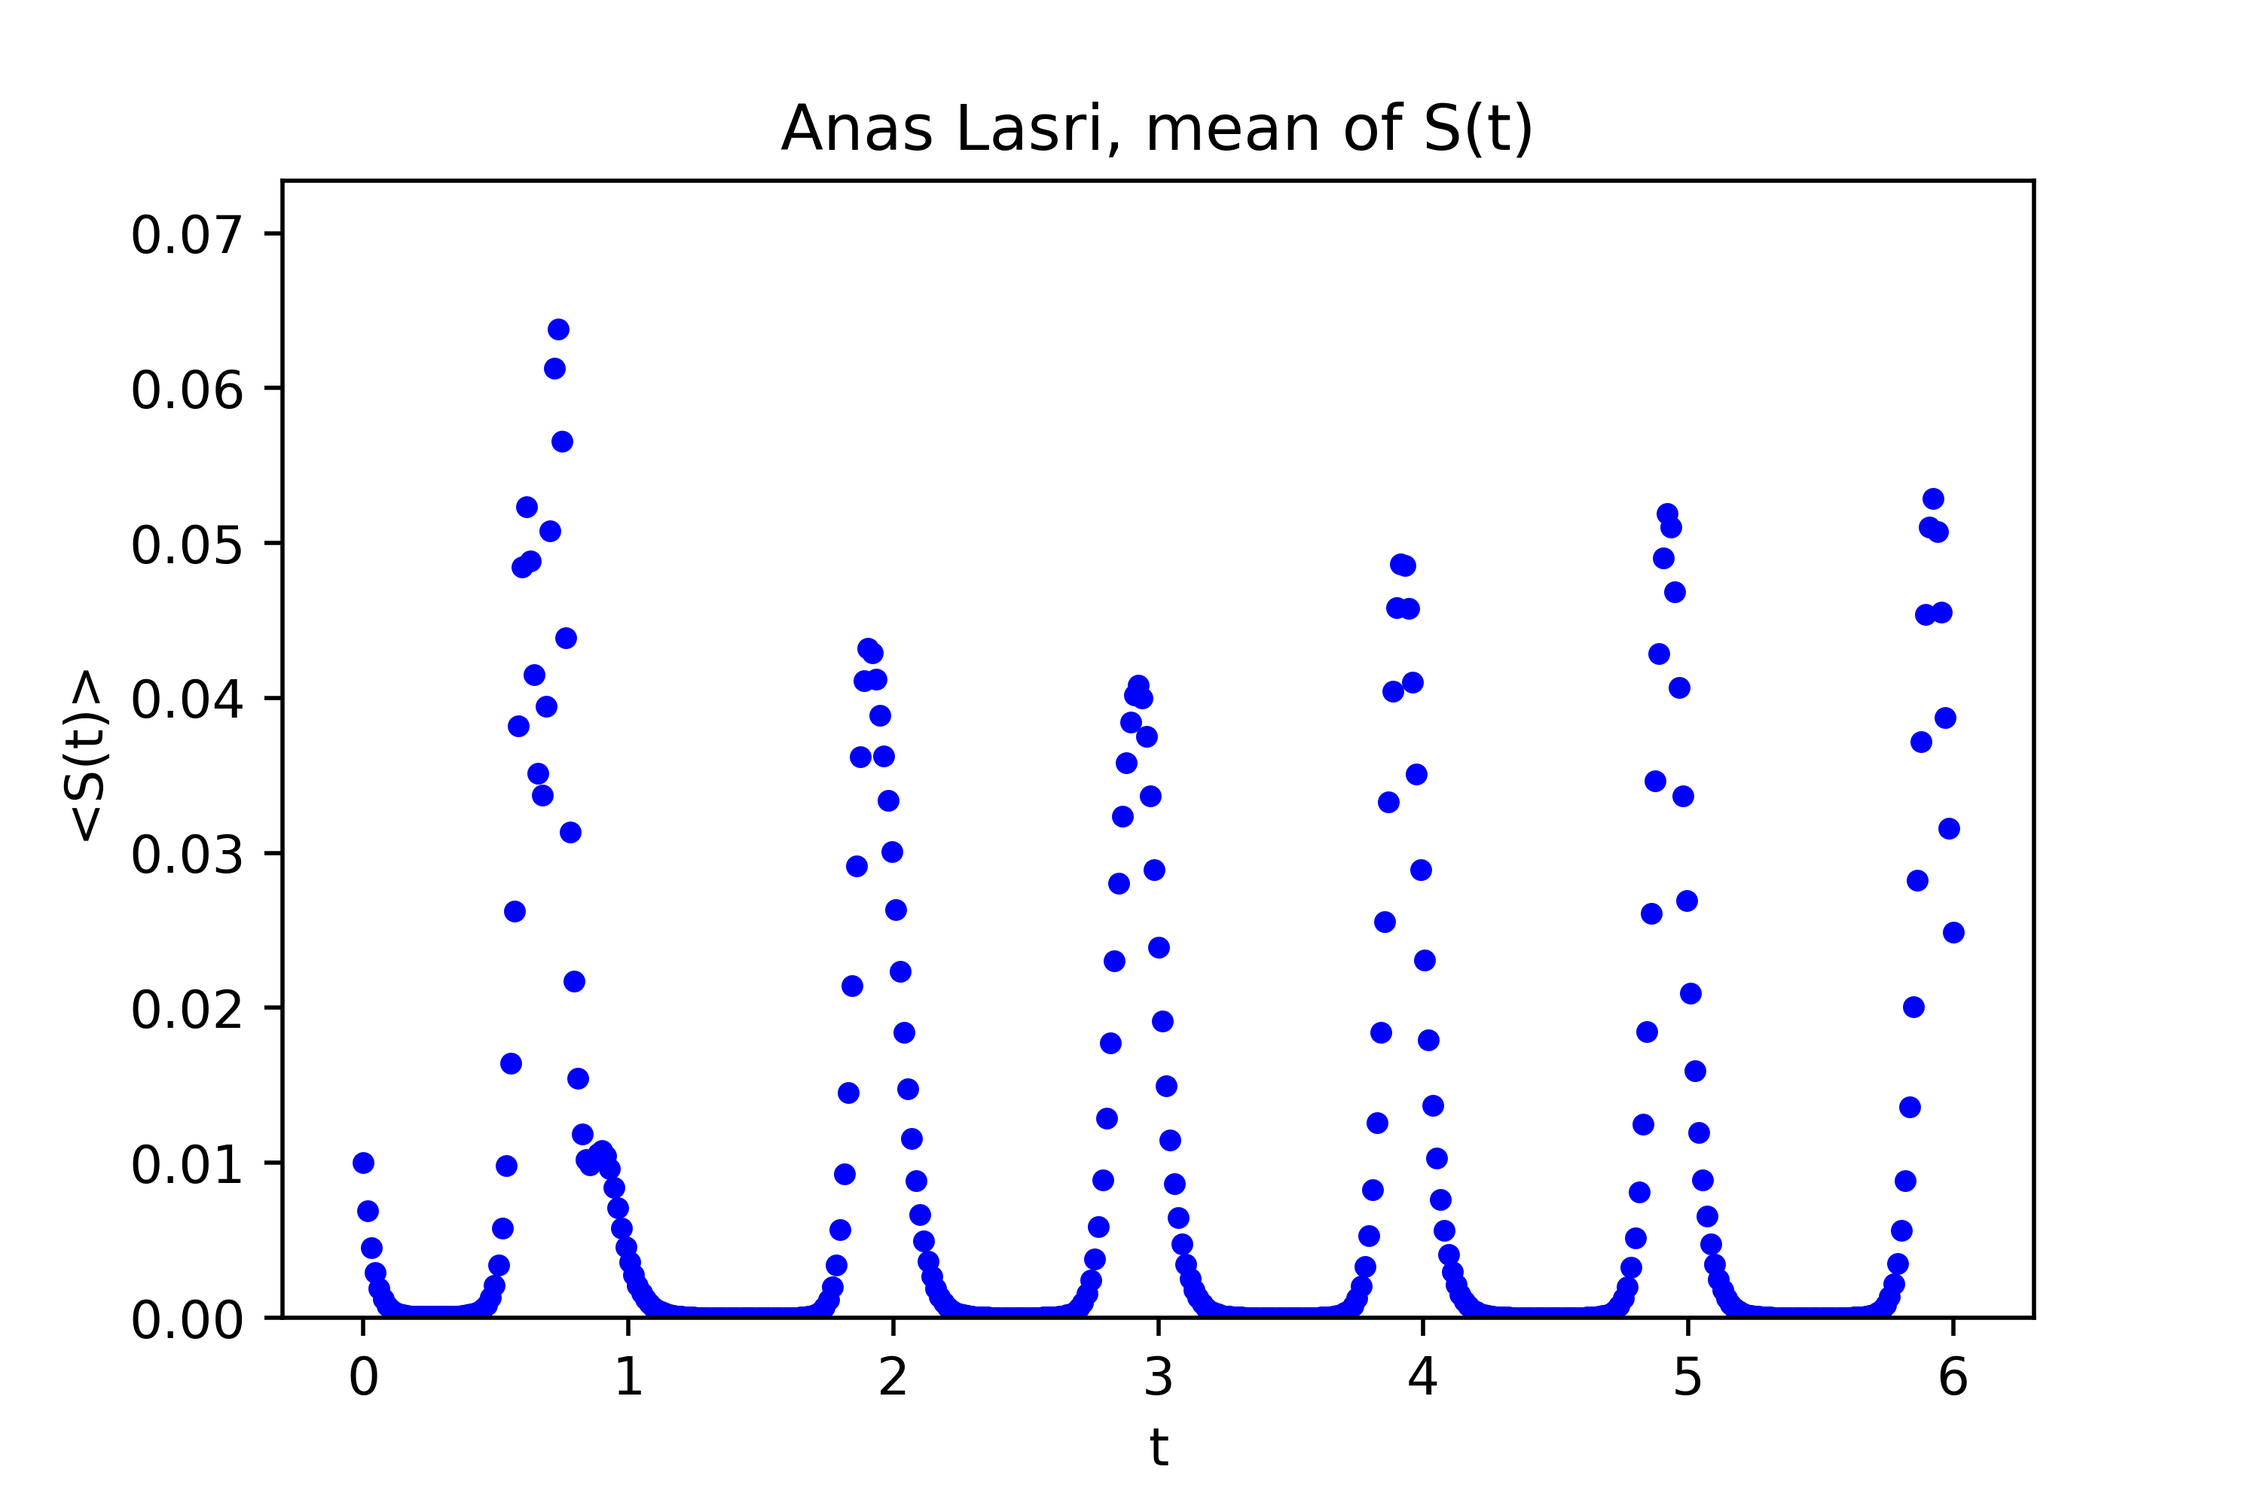
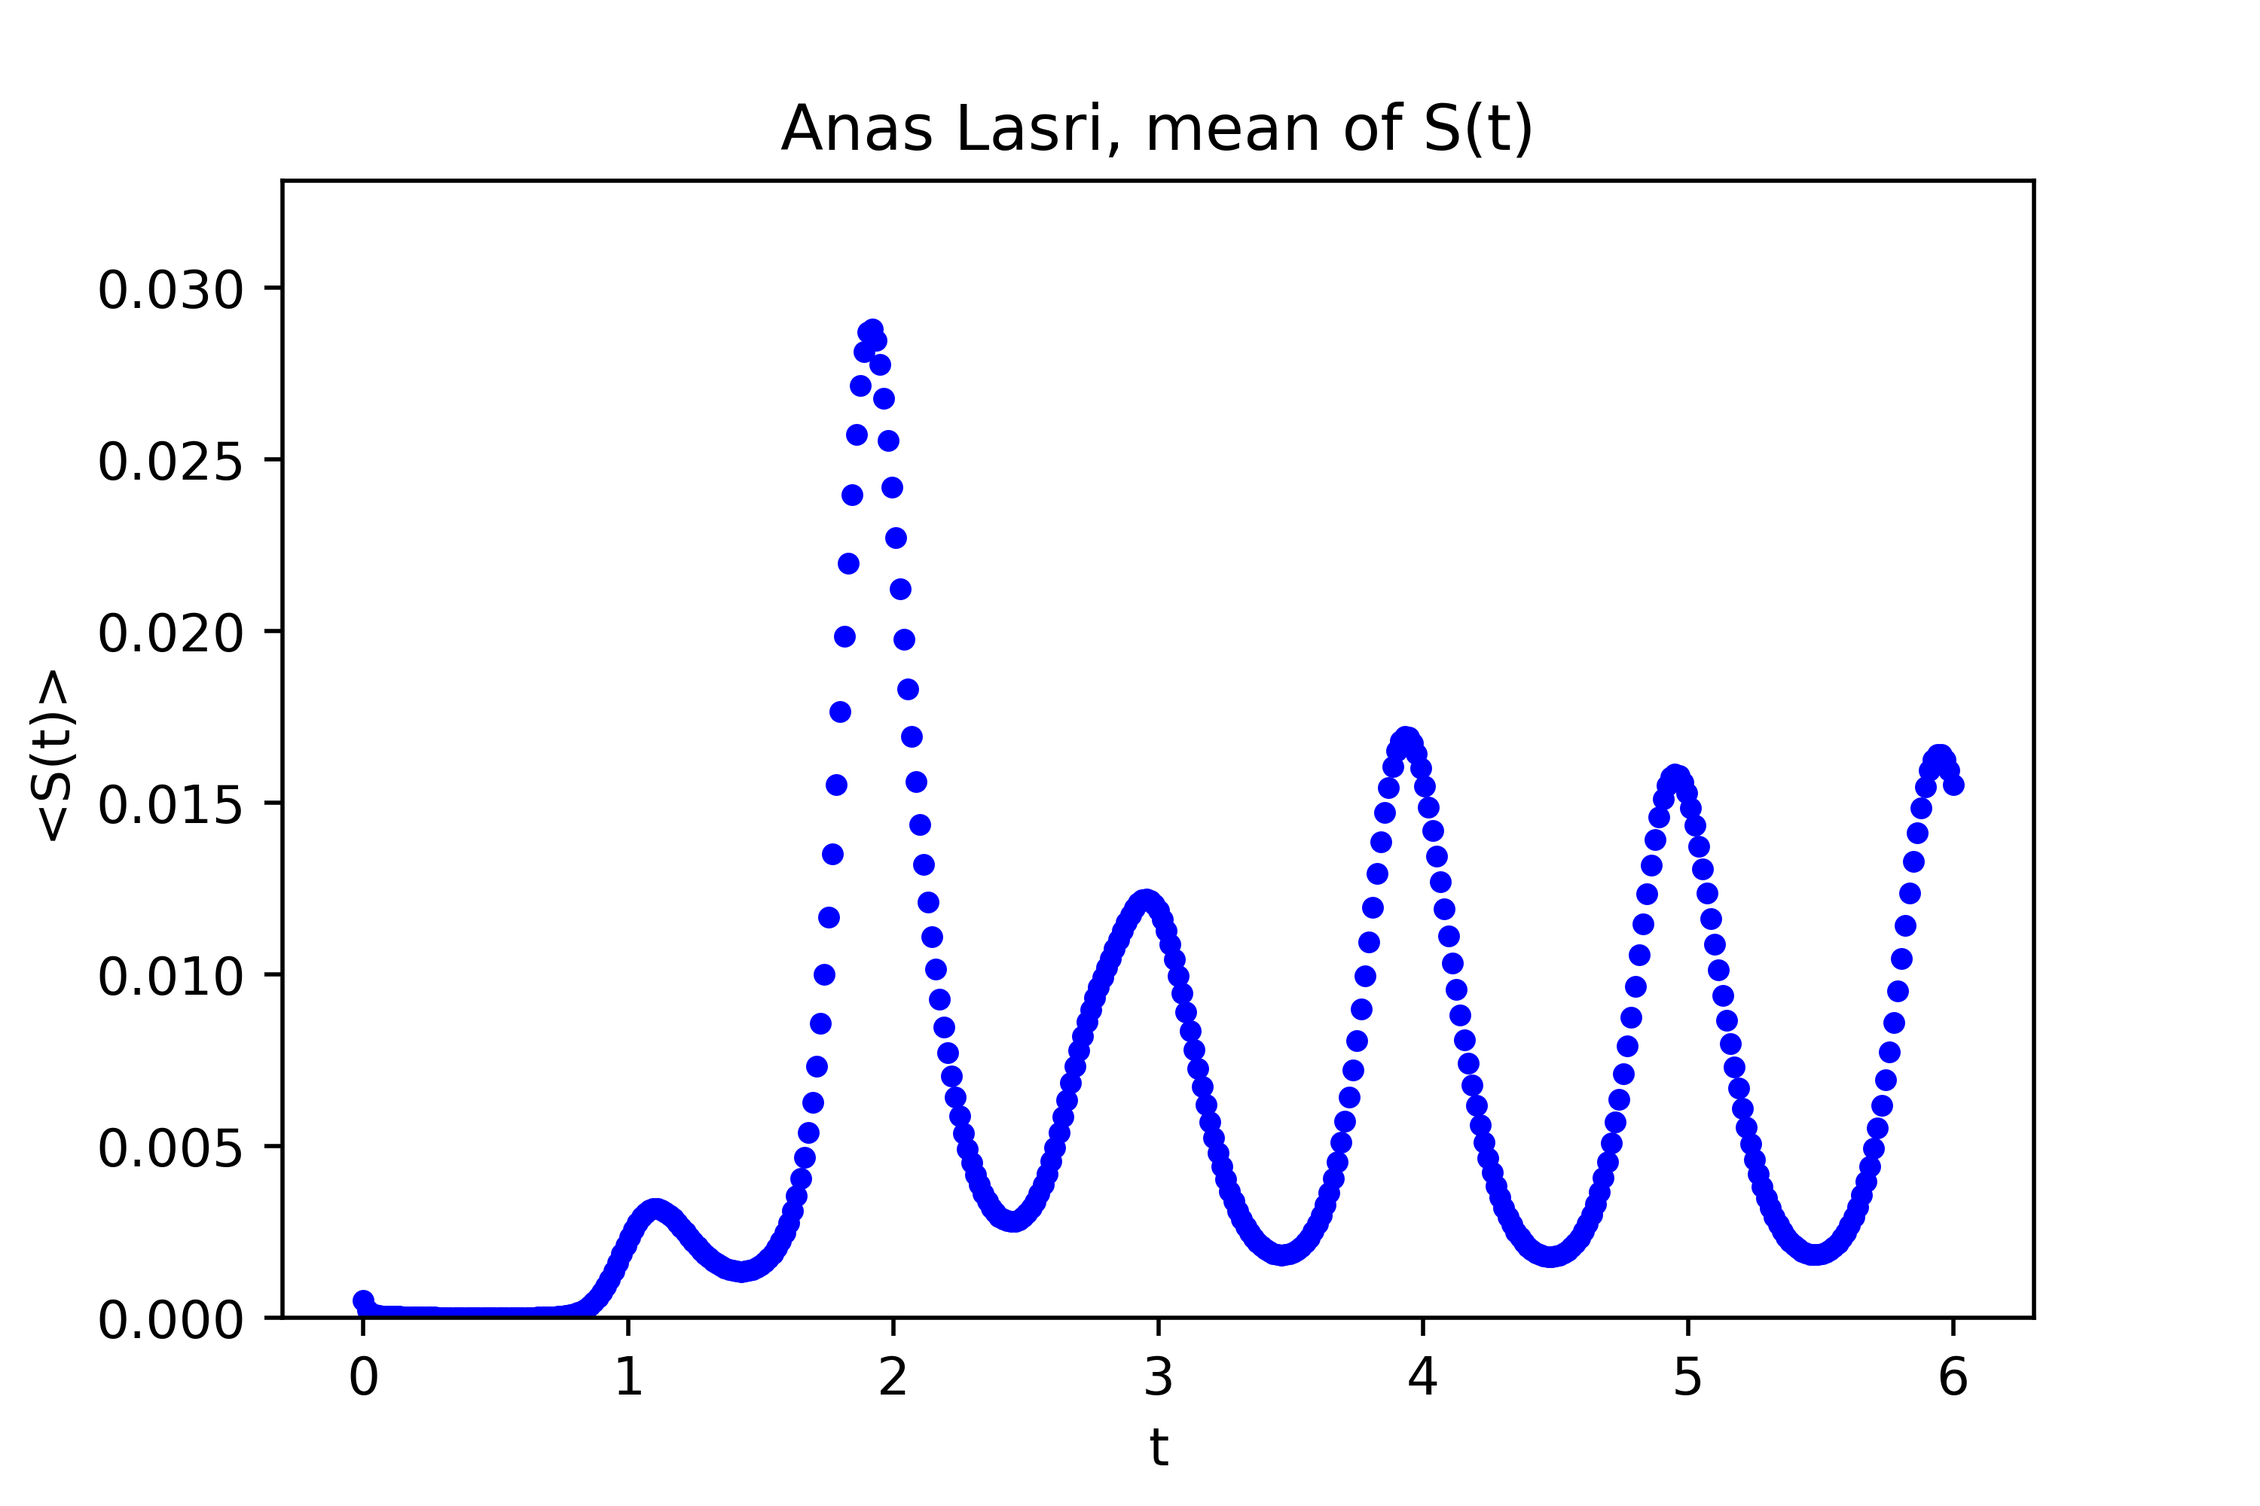
scared

diff --git a/hw2/p1_dev.py b/hw2/p1_dev.py
@@ -1,13 +1,15 @@
 """M345SC Homework 2, part 1
 Anas Lasri Doukkali, CID: 01209387
 """
-
+#==============================================================================#
 #==============================PART 1==========================================#
-
+#==============================================================================#
 
 import numpy as np                                #Importing Numpy
 
+#------------------------------------------------------------------------------#
 #-----------------------------PART 1.1-----------------------------------------#
+#------------------------------------------------------------------------------#
 
 def scheduler(L):
     """
@@ -36,7 +38,30 @@ def scheduler(L):
     all tasks are completed which we keep track of using our task_status list.
 
     b) Time Complexity: I will now discuss the time complexity of my code and its
-    asymptotic behaviour.
+    asymptotic behaviour. We can see we straight away that our code depends heavily
+    on "len(L)", hence, all the loops we have in our code run through this length
+    making it thus our N. We start by initializing the day count which is constant
+    time, the initialization we will need to take into account is the one for the
+    zeros matrices which is done for both S and task_status. This is tricky to estimate
+    as it will depend on the computer architecture. For computers with lower Cache(L1, L2...)
+    storage there will be abrupt jumps as the matrices will need to be stored in the
+    bigger sized memories which are normaly further away from the arithmetic units.
+    This will however not affect our leading order or time complexity analysis as we
+    will be dealing with higher orders. We start with a while loop, the order for this
+    while loop depends on heavily on the structure of the input and will be mainly
+    carachterized by the longest dependency chain, hence, if we get a list in which the
+    number of tasks with an empty dependency list far exceeds the number of tasks that
+    have a non-empty dependency list we then consider that our largest dependency list,
+    call it D will be D<<N, however the worst case will be when the longest dependency list
+    is approximately N, taking into account that the maximum it could be is N-1.
+    Now, inside this while loop we have two separate for loops.
+    In the first for loop, which has order N we simply include an if statement which then
+    only execute simple tasks if they happen to be true, hence this will not affect the
+    leading order or time complexity. The second for loop however has a nested for loop
+    which comes from an if statement, hence this for loop will not be excecuted always
+    however as we will be considering the worst case scenario we can say that with this
+    final for loop our code can have a leading order of O(N^3), however this will not be the
+    case regularly as we have if statement that amotisize our time complexity.
     """
     S = np.zeros(len(L))                         # Initializing empty S array
     day_counter = 0                              # Day counter used to update S
@@ -54,7 +79,9 @@ def scheduler(L):
         day_counter += 1                         # Update the day count
     return S                                     # Return the schedule
 
+#------------------------------------------------------------------------------#
 #-------------------------------Part 1.2.1-------------------------------------#
+#------------------------------------------------------------------------------#
 
 def findPath(A,a0,amin,J1,J2):
     """
@@ -79,7 +106,36 @@ def findPath(A,a0,amin,J1,J2):
     Output:
     L: A list of integers corresponding to a feasible path from J1 to J2.
 
-    Discussion: Add analysis here
+    Discussion: I will first discuss the implementation and the idea behind the
+    algorithm before moving on to analyzing the time complexity of the code itself.
+
+    a) Implementation: The approach taken for this part of the coursework was the use of a modified
+    bfs or dfs to be able to find any feasable path and then print said path. The
+    code below will be for bfs however this can easily be modified for dfs by modifying
+    the pop argument to be empty. The way this works is as described in lectures.
+    We start as always by initialization of some needed lists. L1 will be a list of the nodes,
+    while L2 will be a list used to denote whether the nodes have been visited or no.
+    Hence if the node i is unvisited then L2[i]=0 and otherwise 1. L4 on the other hand will
+    contain the paths which we will be saving as we go along.
+    As I mentioned earlier, this code is similar to the one provided in the folder "codes"
+    and was only changed for two reasons. The one in lectures uses networkx and we now
+    have to write a code that does not. The second reason is that the code from lectures
+    only gives us the shortest distance to the destination node. While what we need is the
+    path itself. This was easily done by recalling Lab4 where we actually implemented a
+    solution to such problem. I choose breadth first search as it is the one that will
+    find the shortest path which dfs does not. This in our case was not particularly helpful
+    as we were only asked to find a "feasible" path, this is however worth mentioning.
+
+    b) Time Complexity: the code only contains two loops. An initial while loop with
+    a nested for loop inside. The while loop runs until our queue is empty. We will now
+    again need to consider the worst case scenario for this which is when we will have to visit
+    all the nodes that we have. Let us say this is order N. All the operation until the
+    while loop will not be relevant when taking N large, and hence we will not take them into
+    account. Inside this while loop now we have as we said earlier a for loop in which in the
+    best case we only execute one operation or in the worst case run four. This loop however
+    will do the number of operations mentioned above for all the neighbours of whichever
+    node the algorithm is considering at that point in time and hence we can safely assume that
+    it will  
     """
 
     L1 = list(np.arange(len(A)))                # Assumes nodes are numbered from 0 to N-1
@@ -98,16 +154,17 @@ def findPath(A,a0,amin,J1,J2):
             if L2[v]==0 and a0*A[x][i][1] >= amin: # Condition from signal traffic
                 Q.append(v)                     # Add unexplored neighbors to back of queue
                 L2[v]=1
-                #L3[v]=1+L3[x]
                 L4[v].extend(L4[x])             # Add path to node x and node v to path
                 L4[v].append(v)
             print("v=",v)
             print("Q=",Q)
-    L5 = L4[J2]                                 # Printing the correct path
+    L5 = L4[J2]                                 # Printing the feasable path found
 
     return L5
 
+#------------------------------------------------------------------------------#
 #--------------------------------Part 1.2.2------------------------------------#
+#------------------------------------------------------------------------------#
 
 def a0min(A,amin,J1,J2):
     """
@@ -145,15 +202,15 @@ def a0min(A,amin,J1,J2):
     Udict = {}                                # Unexplored nodes dict
 
     for n in range(len(A)):
-        Udict[n] = dinit
-    Udict[J1] = 0
+        Udict[n] = dinit                      # Initializing distance as -1
+    Udict[J1] = 0                             # Distance to source is 0
 
     #Main Search
-    while len(Udict) > 0:
+    while len(Udict) > 0:                     # While there are unexplored nodes
         #Find node with min d in Udict and move to Edict
-        dmin  = dinit
-        for n,w in Udict.items():
-            if w > dmin:
+        dmin  = dinit                         # Setting minimum distance to intial one
+        for n,w in Udict.items():             # Looping through the unexplored dictionary
+            if w > dmin:                      # If the weight of certain n
                 dmin = w
                 nmin = n
         Edict[nmin] = Udict.pop(nmin)
@@ -181,8 +238,6 @@ def a0min(A,amin,J1,J2):
 
 
     return output
-
-
 
 
 #if __name__=='__main__':

diff --git a/hw2/p2_dev.py b/hw2/p2_dev.py
@@ -89,15 +89,15 @@ def modelN(G,x=0,params=(50,80,105,71,1,0.01),tf=6,Nt=400,display=False):
 
     #-------------------- Defining the adjacency matrix --------------------
     A = nx.adjacency_matrix(G).toarray()
-    print(A)
+    #print(A)
     q_i = np.array(A.sum(axis=0))
     q_im = np.array([q_i,]*N).T
     sum_kj = np.dot(q_i,A)
     #sum_kjm = np.array([sum_kj,]*N).T
     flux_ij = np.array(tau*np.divide(np.multiply(q_im,A),sum_kj))
     flux_ij[np.isnan(flux_ij)] = 0
-    print(flux_ij)
-    print(sum_kj)
+    #print(flux_ij)
+    #print(sum_kj)
     #print(tau*np.multiply(q_im,A))
     #print(sum_kjm)
     #print(flux_ij)
@@ -138,31 +138,127 @@ def modelN(G,x=0,params=(50,80,105,71,1,0.01),tf=6,Nt=400,display=False):
     Smean = np.mean(S,axis=1)
     Svar = np.var(S,axis=1)
 
-    plt.figure()
-    plt.scatter(tarray,Smean,s=10,c='blue')
-    plt.ylim(0,1.15*max(Smean))
-    plt.xlabel('t')
-    plt.ylabel('<S(t)>')
-    plt.title('Anas Lasri, mean of S(t)')
-    plt.savefig('CW2p1.png', dpi = 500)
+    if display == True:
+        plt.figure()
+        plt.scatter(tarray,Smean,s=10,c='blue')
+        plt.ylim(0,1.15*max(Smean))
+        plt.xlabel('t')
+        plt.ylabel('<S(t)>')
+        plt.title('Anas Lasri, mean of S(t)')
+        plt.savefig('CW2p1.png', dpi = 500)
 
 
-    plt.figure()
-    plt.scatter(tarray,Svar,s=10,c='magenta')
-    plt.ylim(0,1.15*max(Svar))
-    plt.xlabel('t')
-    plt.ylabel('$<(S(t)-<S(t)>)^2>$')
-    plt.title('Anas Lasri, variance of S(t)')
-    plt.savefig('CW2p2.png', dpi = 500)
+        plt.figure()
+        plt.scatter(tarray,Svar,s=10,c='magenta')
+        plt.ylim(0,1.15*max(Svar))
+        plt.xlabel('t')
+        plt.ylabel('$<(S(t)-<S(t)>)^2>$')
+        plt.title('Anas Lasri, variance of S(t)')
+        plt.savefig('CW2p2.png', dpi = 500)
 
 
 
 
 
-    return #Smean, Svar
+    return Smean, Svar
+
+def modelN_modified(G,x=0,params=(50,80,105,71,1,0.01),tf=6,Nt=400,display=False):
+    """
+    Question 2.1
+    Simulate model with tau=0
+
+    Input:
+    G: Networkx graph
+    params: contains model parameters, see code below.
+    tf,Nt: Solutions Nt time steps from t=0 to t=tf (see code below)
+    display: A plot of S(t) for the infected node is generated when true
+
+    x: node which is initially infected
+
+    Output:
+    Smean,Svar: Array containing mean and variance of S across network nodes at
+                each time step.
+    """
+    a,theta0,theta1,g,k,tau=params
+    tarray = np.linspace(0,tf,Nt+1)
+    Smean = np.zeros(Nt+1)
+    Svar = np.zeros(Nt+1)
+    N = nx.number_of_nodes(G)           # Defining number of nodes
+    y_S = np.zeros(N)
+    y_I = np.zeros(N)
+    y_V = np.ones(N)
+    y_S[x] = 0.05
+    y_I[x] = 0.05
+    y_V[x] = 0.1
+
+    z = np.concatenate([y_S,y_I])
+    y0 = np.concatenate([z,y_V])
+    #print(y0)
 
 
-def diffusion(input=(None)):
+    #-------------------- Defining the adjacency matrix --------------------
+    A = nx.adjacency_matrix(G).toarray()
+    #print(A)
+    q_i = np.array(A.sum(axis=0))
+    q_im = np.array([q_i,]*N).T
+    sum_kj = np.dot(q_i,A)
+    #sum_kjm = np.array([sum_kj,]*N).T
+    flux_ij = np.array(tau*np.divide(np.multiply(q_im,A),sum_kj))
+    flux_ij[np.isnan(flux_ij)] = 0
+    #print(flux_ij)
+    #print(sum_kj)
+    #print(tau*np.multiply(q_im,A))
+    #print(sum_kjm)
+    #print(flux_ij)
+
+
+
+    def RHS(y,t):
+        """Compute RHS of model at time t
+        input: y should be a 3N x 1 array containing with
+        S,I,V corresponding to
+        S on nodes 0 to N-1, I on nodes 0 to N-1, and
+        V on nodes 0 to N-1, respectively.
+        output: dy: also a 3N x 1 array corresponding to dy/dt
+
+        Discussion: add discussion here
+        """
+        #a,theta0,theta1,g,k,tau=params      # Input parameters
+        #N = nx.number_of_nodes(G)           # Defining number of nodes
+        S = np.array(y[:N])
+        I = np.array(y[N:2*N])
+        V = np.array(y[2*N:3*N])
+        dy = np.zeros(3*N)                  # Initializing dy
+
+        theta = theta0 + theta1*(1 - np.sin(2*np.pi*t))
+
+
+
+
+        dy[:N] = a*I - (g + k)*S + np.dot(flux_ij,S) - np.multiply(np.array(flux_ij.sum(axis=0)),S)
+        dy[N:2*N] = theta*np.multiply(S,V) - (k + a)*I + np.dot(flux_ij,I) - np.multiply(np.array(flux_ij.sum(axis=0)),I)
+        dy[2*N:3*N] = k - k*V - theta*np.multiply(S,V)  + np.dot(flux_ij,V) - np.multiply(np.array(flux_ij.sum(axis=0)),V)
+
+
+        return dy
+
+    y = odeint(RHS,y0,tarray)
+    S = y[:,:N]
+    I = y[:,N:2*N]
+    V = y[:,2*N:3*N]
+    Smean = np.mean(S,axis=1)
+    Svar = np.var(S,axis=1)
+    Imean = np.mean(I,axis=1)
+    Ivar = np.var(I,axis=1)
+    Vmean = np.mean(V,axis=1)
+    Vvar = np.var(V,axis=1)
+
+
+
+    return Smean, Svar,Imean, Ivar, Vmean, Vvar
+
+
+def diffusion(G,tf=20,Nt=400,display=False):
     """Analyze similarities and differences
     between simplified infection model and linear diffusion on
     Barabasi-Albert networks.
@@ -170,6 +266,30 @@ def diffusion(input=(None)):
 
     Discussion: add discussion here
     """
+    theta_0=  np.linspace(1,3,5)
+    tau_0 = np.linspace(1,3,5)
+    Smean_m = np.zeros((len(tau_0),Nt+1))
+    Svar_m = np.zeros((len(tau_0),Nt+1))
+    Vmean_m = np.zeros((len(tau_0),Nt+1))
+    Vvar_m = np.zeros((len(tau_0),Nt+1))
+    Imean_m = np.zeros((len(tau_0),Nt+1))
+    Ivar_m = np.zeros((len(tau_0),Nt+1))
+
+    tarray = np.linspace(0,tf,Nt+1)
+    for i in range(len(tau_0)):
+        Smean_m[i][:], Svar_m[i][:], Imean_m[i][:], Ivar_m[i][:], Vmean_m[i][:], Vvar_m[i][:] = modelN_modified(G,x=0,params=(0,theta_0[i],0,0,0,tau_0[i]),tf=620,Nt=400,display=False)
+
+    plt.figure()
+    for i in range(len(tau_0)):
+        plt.hold(True)
+        #plt.plot(tarray,Svar_m[i][:])
+        #plt.plot(tarray,Ivar_m[i][:])
+        plt.plot(tarray,Vvar_m[i][:])
+    plt.figure()
+
+
+
+
 
 
     return None #modify as needed
